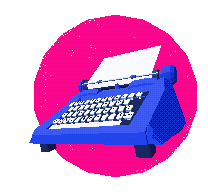
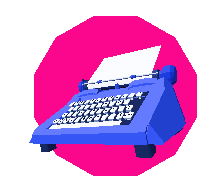
feat: render the typewriter with the approved PS1 finish

diff --git a/apps/desktop/src/typewriter/ink.ts b/apps/desktop/src/typewriter/ink.ts
@@ -2,7 +2,7 @@ import { Color, ShaderMaterial, Vector4 } from 'three';
 import type { Texture } from 'three';
 
 const inks: Record<string, string[]> = {
-  housing: ['101654', '1223a0', '1832cd', '2144ed', '3e5cf4'],
+  housing: ['101654', '1a278f', '2240ce', '3555f4', '647bff'],
   mechanism: ['0a102a', '101944', '14225a', '182861', '1b2964'],
   carriage: ['0c1545', '16288c', '1c38bf', '2545dc', '4462f2'],
   knob: ['0c1556', '112495', '142dc5', '1c3cdf', '3c55f1'],
@@ -12,26 +12,14 @@ const inks: Record<string, string[]> = {
   paper: ['a8b6d0', 'dce3ee', 'edf1f9', 'f4f6fc', 'fbfcff'],
 };
 
-const raster = `
-  float hash(vec2 p) {
-    return mod(dot(p, vec2(53.0, 193.0)) + mod(p.x * p.y, 31.0) * 137.0, 509.0) / 509.0;
-  }
-  float ordered(vec2 p) {
-    vec2 a = mod(p, 2.0), b = mod(floor(p * .5), 2.0);
-    return (4.0 * (2.0 * abs(a.x - a.y) + a.y) + 2.0 * abs(b.x - b.y) + b.y) / 16.0;
-  }
-`;
-
 export function castInk(style: string, atlas: Texture) {
   const cap = style === 'cap';
-  const housing = style === 'housing';
-  const knob = style === 'knob';
+
   return new ShaderMaterial({
-    defines: { ...(cap ? { LEGEND: 1 } : {}), ...(housing || knob ? { SCREEN: 1 } : {}) },
+    defines: cap ? { LEGEND: 1 } : {},
     uniforms: {
       tones: { value: (inks[style] ?? inks.mechanism).map(hex => new Color(`#${hex}`)) },
       stops: { value: cap ? new Vector4(.28, .46, .62, .77) : new Vector4(.29, .45, .65, .83) },
-      castShade: { value: new Color(housing ? '#121d74' : '#10185e') },
       marks: { value: atlas },
     },
     vertexShader: `
@@ -44,12 +32,10 @@ export function castInk(style: string, atlas: Texture) {
       }
     `,
     fragmentShader: `
-      ${raster}
       varying vec3 face;
       varying vec2 mark;
       uniform vec3 tones[5];
       uniform vec4 stops;
-      uniform vec3 castShade;
       uniform sampler2D marks;
       void main() {
         vec3 n = normalize(face);
@@ -59,13 +45,6 @@ export function castInk(style: string, atlas: Texture) {
         if (tone >= stops.y) ink = tones[2];
         if (tone >= stops.z) ink = tones[3];
         if (tone >= stops.w) ink = tones[4];
-        vec2 p = floor(gl_FragCoord.xy);
-        #ifdef SCREEN
-          float d = ordered(p);
-          if (abs(n.x) > .72 && d < .58) ink = castShade;
-          else if (n.y > .2 && d < .20) ink *= .80;
-          if (hash(p) > .990) ink = mix(ink, tones[4], .24);
-        #endif
         #ifdef LEGEND
           vec4 legend = texture2D(marks, mark);
           if (legend.a > .5) ink = legend.rgb;
@@ -81,7 +60,7 @@ export function plateInk() {
   return new ShaderMaterial({
     depthTest: false,
     depthWrite: false,
-    uniforms: { pink: { value: new Color('#fb078e') }, screenPink: { value: new Color('#ec087e') } },
+    uniforms: { pink: { value: new Color('#fb078e') } },
     vertexShader: `
       varying vec2 point;
       void main() {
@@ -90,19 +69,15 @@ export function plateInk() {
       }
     `,
     fragmentShader: `
-      ${raster}
       uniform vec3 pink;
-      uniform vec3 screenPink;
       varying vec2 point;
       void main() {
         vec2 p = point / vec2(163.0, 160.0);
-        float sector = .34906585;
+        float sector = .5235987756; // Twelve flat sides, including the top and bottom.
         float angle = atan(p.y, p.x);
         float edge = length(p) * cos(floor(.5 + angle / sector) * sector - angle);
-        float grain = hash(floor(gl_FragCoord.xy));
-        if (edge > 1.0 || grain > .998 || (edge > .96 && p.x * p.y < -.24 && grain > .91)) discard;
-        vec3 ink = ordered(floor(gl_FragCoord.xy)) < .17 ? screenPink : pink;
-        gl_FragColor = vec4(ink, 1.0);
+        if (edge > 1.0) discard;
+        gl_FragColor = vec4(pink, 1.0);
         #include <colorspace_fragment>
       }
     `,

diff --git a/DESIGN.md b/DESIGN.md
@@ -32,7 +32,7 @@ Three distinct effects guide the art and stock.
 
 Keep the 3.6s paper-grain hiss changing in place. Flake drift is separate, with poses held at 12 fps without slowing travel or stepping the density fade. Persist toner pause across launches, and pause grain, ink static and flakes when paused or hidden. Reduced motion stops the animated stock and sweeps. Forced colors, where supported, suppress decorative art, grain, flakes, wear, sweeps and SVG halftoning while retaining legible text, controls and marks.
 
-**3F solid-paper exception.** Home (including Calendar and Reading), Sessions, and every Settings page use solid paper, including the shared toolbar when present. Preserve the Settings title's 3.6s toner steps and held solid hover. Sites and Statistics retain their existing stock. The approved [PS1-inspired direction](docs/design/productivity/ps1-visual-direction.md) records the requested future changes to Home rules, buttons and typewriter; it has not yet been implemented.
+**3F solid-paper exception.** Home (including Calendar and Reading), Sessions, and every Settings page use solid paper, including the shared toolbar when present. Preserve the Settings title's 3.6s toner steps and held solid hover. Sites and Statistics retain their existing stock. The [PS1-inspired refinement](docs/design/productivity/ps1-visual-direction.md) applies four held ink frames to straight 2px Home section rules and stepped corners to Home outline actions.
 
 The historical [light-wear comparison](docs/design/dither-ui/printed-ink-light-wear-comparison.png) and [printed-ink Light Cobalt target](docs/design/dither-ui/printed-ink-light-cobalt-target.png) document the baseline treatment.
 
@@ -49,7 +49,7 @@ Capture matched stills and at least 7.2s of video per comparison at 100%. Inspec
 
 Keep the established 3px controls, 4px notices and 6px dialogs. Reserve the ring motif for Site entry. The offset-carriage toolbar mark is a separate brand symbol; leave it unchanged.
 
-Frame the whole small Cobalt typewriter from a low front-right angle, with a visible right sidewall, paper entering the roller and a separate spacebar. Its front slightly overlaps a stationary, near-circular, slightly flattened polygonal hot pink plate. The machine floats ±6 CSS px over 6 s. The approved future PS1 direction uses stepped raster edges, hard facets and a flat pink plate without a shadow. Keep ink vivid and bounded. Use the four-row US QWERTY layout and attached bitmap legends defined in the plan.
+Frame the whole small Cobalt typewriter from a low front-right angle, with a visible right sidewall, paper entering the roller and a separate spacebar. Its front slightly overlaps a stationary, near-circular, slightly flattened polygonal hot pink plate. The machine floats ±6 CSS px over 6 s. Use stepped raster edges, hard cobalt facets and a flat pink plate without a shadow. Keep ink vivid and bounded. Use the four-row US QWERTY layout and attached bitmap legends defined in the plan.
 
 ## Components
 
